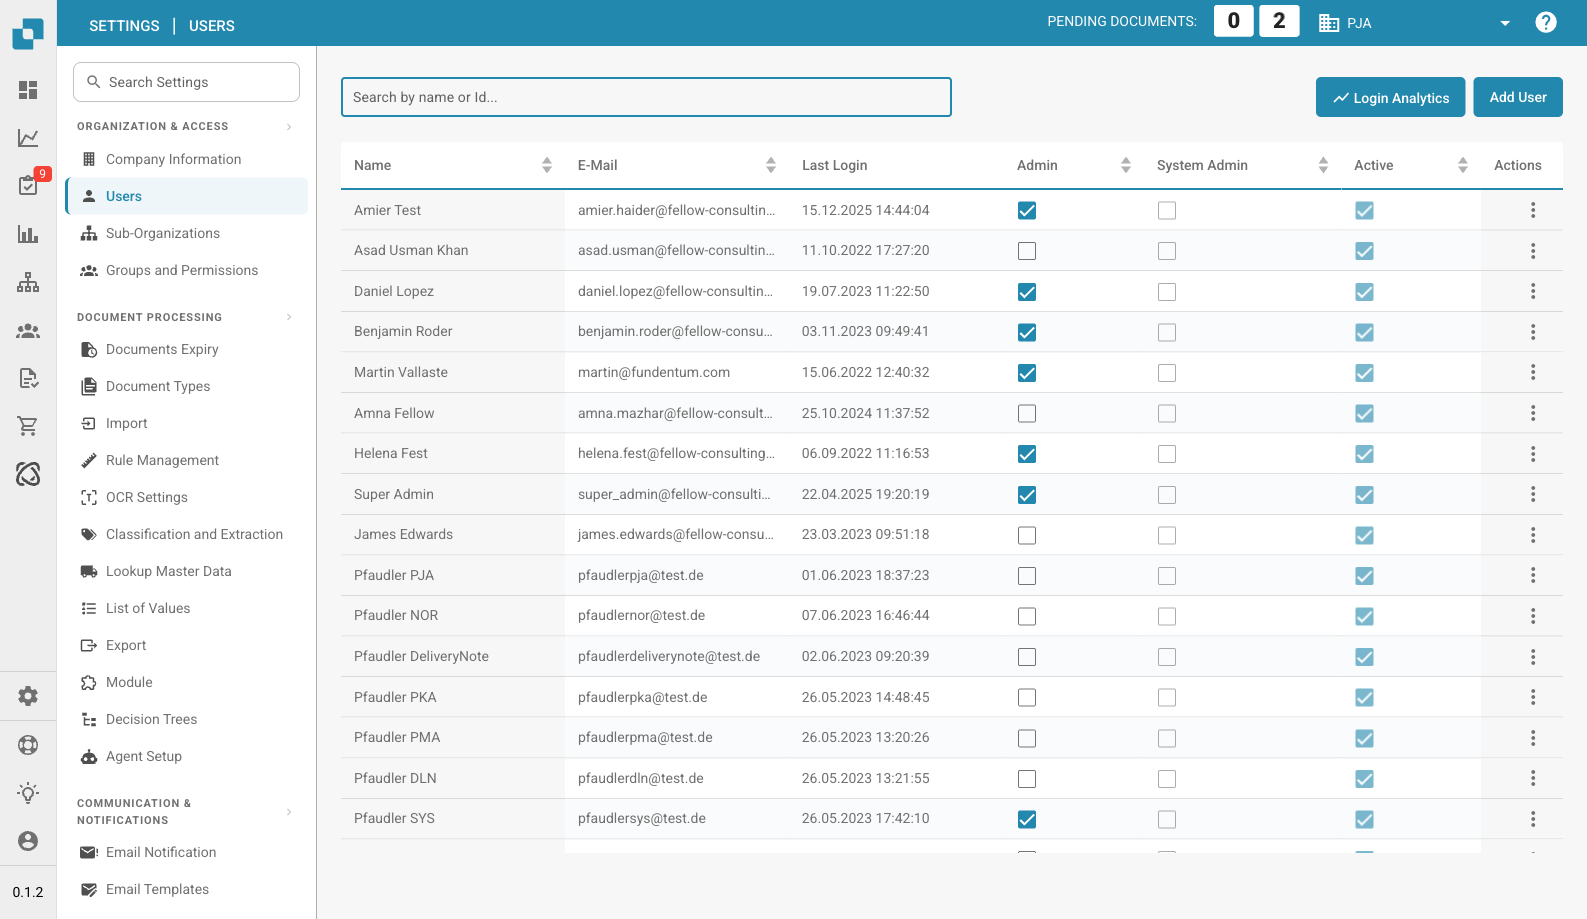
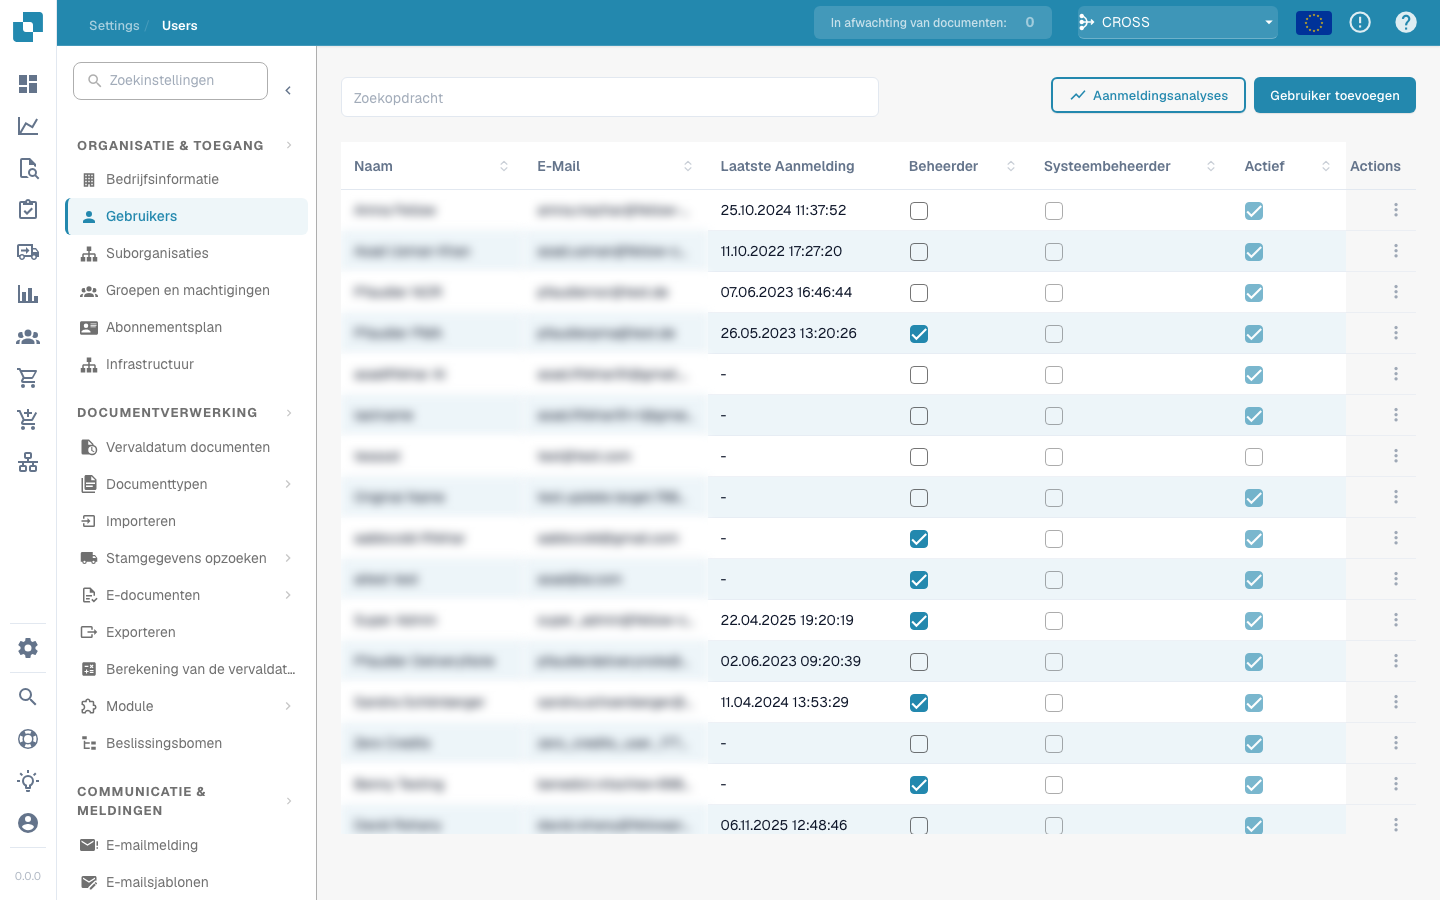
docs(nl): add Login Analytics page + renew Users screenshot

diff --git a/readme/administration-and-setup/settings/global-settings/groups-users-and-permissions/users/login-analytics.md b/readme/administration-and-setup/settings/global-settings/groups-users-and-permissions/users/login-analytics.md
@@ -1,0 +1,38 @@
+# Aanmeldingsanalyses
+
+Met **Aanmeldingsanalyses** krijgen beheerders een alleen-lezen overzicht voor de hele organisatie van *wanneer* en *hoe vaak* mensen zich bij DocBits aanmelden. Het beantwoordt vragen als "stijgt het aantal aanmeldingen?", "hoeveel verschillende gebruikers waren deze maand actief?" en "wanneer treden de gebruikspieken op?" — zonder de inloggegevens of persoonlijke gegevens van een individuele gebruiker prijs te geven.
+
+> **Toegang:** Open **Instellingen → Organisatie & Toegang → Gebruikers** en klik op de knop **Aanmeldingsanalyses** rechtsboven (`/settings/login-analytics`).
+
+<figure><img src="../../../../../.gitbook/assets/login_analytics_overview.png" alt="Pagina Aanmeldingsanalyses met de activiteitsgrafiek en samenvattingskaarten"><figcaption><p>Aanmeldingsactiviteit van de organisatie over de geselecteerde periode</p></figcaption></figure>
+
+## Tijdsbereik
+
+Kies de te analyseren periode met de selector rechtsboven: **7D**, **30D**, **90D**, **180D**, **Jaar** of **Aangepast** voor een vrij datumbereik. Alles op de pagina — de grafiek en de samenvattingskaarten — wordt opnieuw berekend voor de periode die u kiest.
+
+De banner **Gegevensinformatie** herhaalt het exacte venster dat in beeld is (bijv. *Gegevens van 19.05.2026 tot 18.06.2026*), zodat altijd duidelijk is welke datums de cijfers dekken.
+
+## Grafiek van aanmeldingsactiviteit
+
+De grafiek toont twee reeksen over de geselecteerde periode:
+
+| Reeks | Betekenis |
+|--------|---------|
+| **Totaal aantal aanmeldingen** | Het aantal aanmeldingen per dag, inclusief herhaalde aanmeldingen door dezelfde persoon. |
+| **Unieke gebruikers** | Hoeveel *verschillende* gebruikers zich die dag hebben aangemeld. |
+
+Beweeg de muis over een punt om de exacte waarde voor die dag te lezen. Pieken tonen uw drukste dagen; een vlakke lijn **Unieke gebruikers** onder een grillige lijn **Totaal aantal aanmeldingen** betekent dat een paar mensen zich vaak hebben aangemeld.
+
+## Samenvattingskaarten
+
+Onder de grafiek vatten drie kaarten de hele geselecteerde periode samen:
+
+| Kaart | Betekenis |
+|------|---------|
+| **Totaal aantal aanmeldingen** | Alle aanmeldingen over de periode. |
+| **Unieke gebruikers** | Verschillende gebruikers die zich minstens één keer hebben aangemeld. |
+| **Gem./dag** | Gemiddeld aantal aanmeldingen per dag over de periode. |
+
+## Privacy
+
+Aanmeldingsanalyses rapporteert uitsluitend **geaggregeerde** cijfers — aantallen en trends voor de organisatie als geheel. Het toont geen individuele gebruikers, e-mailadressen of IP-adressen. Gebruik in plaats daarvan de pagina [Gebruikers](README.md) om het account van een specifieke persoon te bekijken of te bewerken.

diff --git a/readme/SUMMARY.md b/readme/SUMMARY.md
@@ -106,6 +106,7 @@
       * [Gebruikers](administration-and-setup/settings/global-settings/groups-users-and-permissions/users/README.md)
         * [Modifying User Details](administration-and-setup/settings/global-settings/groups-users-and-permissions/users/modifying-user-details.md)
         * [Admin Privileges](administration-and-setup/settings/global-settings/groups-users-and-permissions/users/admin-privileges.md)
+        * [Aanmeldingsanalyses](administration-and-setup/settings/global-settings/groups-users-and-permissions/users/login-analytics.md)
       * [Suborganisaties](administration-and-setup/settings/global-settings/groups-users-and-permissions/sub-organizations/README.md)
         * [How to create a Sub-Organization](administration-and-setup/settings/global-settings/groups-users-and-permissions/sub-organizations/how-to-create-a-sub-organization.md)
       * [Groepen en Machtigingen](administration-and-setup/settings/global-settings/groups-users-and-permissions/groups-and-permissions/README.md)

diff --git a/readme/administration-and-setup/settings/global-settings/groups-users-and-permissions/users/README.md b/readme/administration-and-setup/settings/global-settings/groups-users-and-permissions/users/README.md
@@ -24,6 +24,8 @@ Gebruik de **Zoekbalk** bovenaan om snel gebruikers te vinden op naam of ID.
 
 Klik op **Aanmeldingsstatistieken** om gegevens over aanmeldingsactiviteit binnen uw organisatie te bekijken, waaronder de frequentie en patronen van aanmeldingen.
 
+Zie [Aanmeldingsanalyses](login-analytics.md) voor de volledige uitsplitsing.
+
 ## Een nieuwe gebruiker toevoegen
 
 1. Klik op de knop **Gebruiker toevoegen** rechtsboven.
